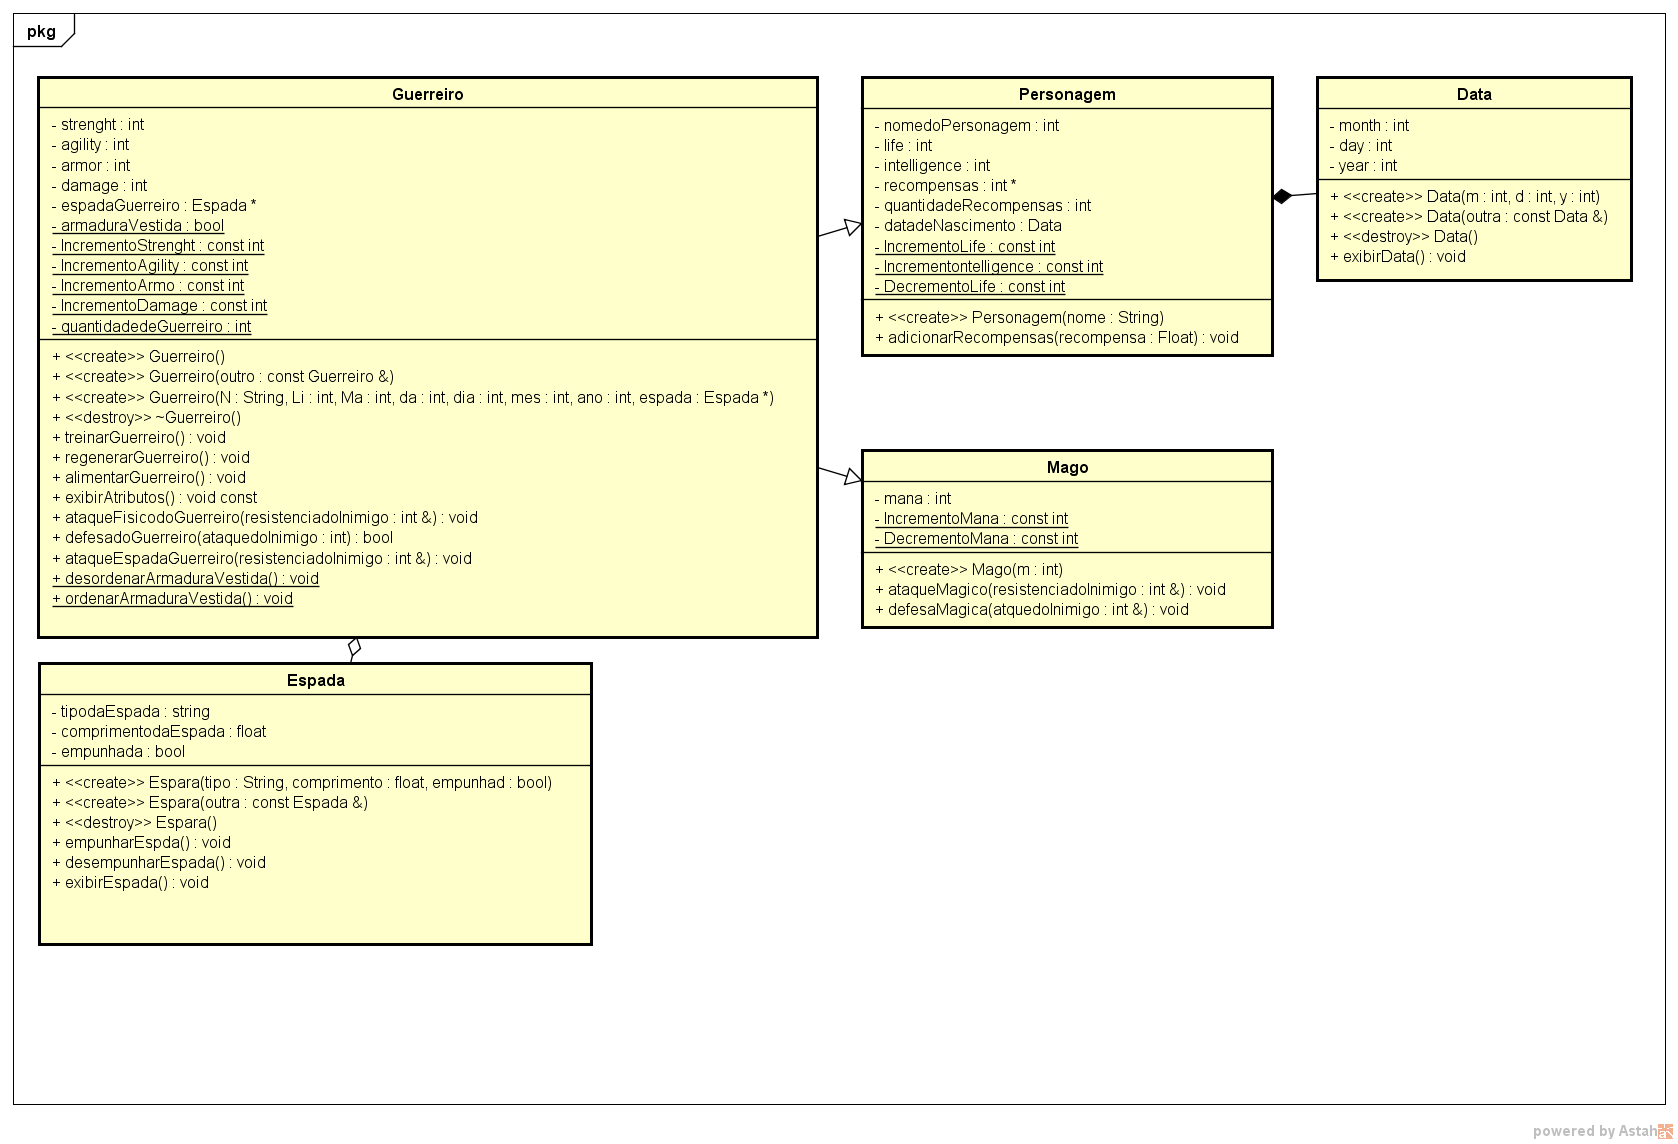
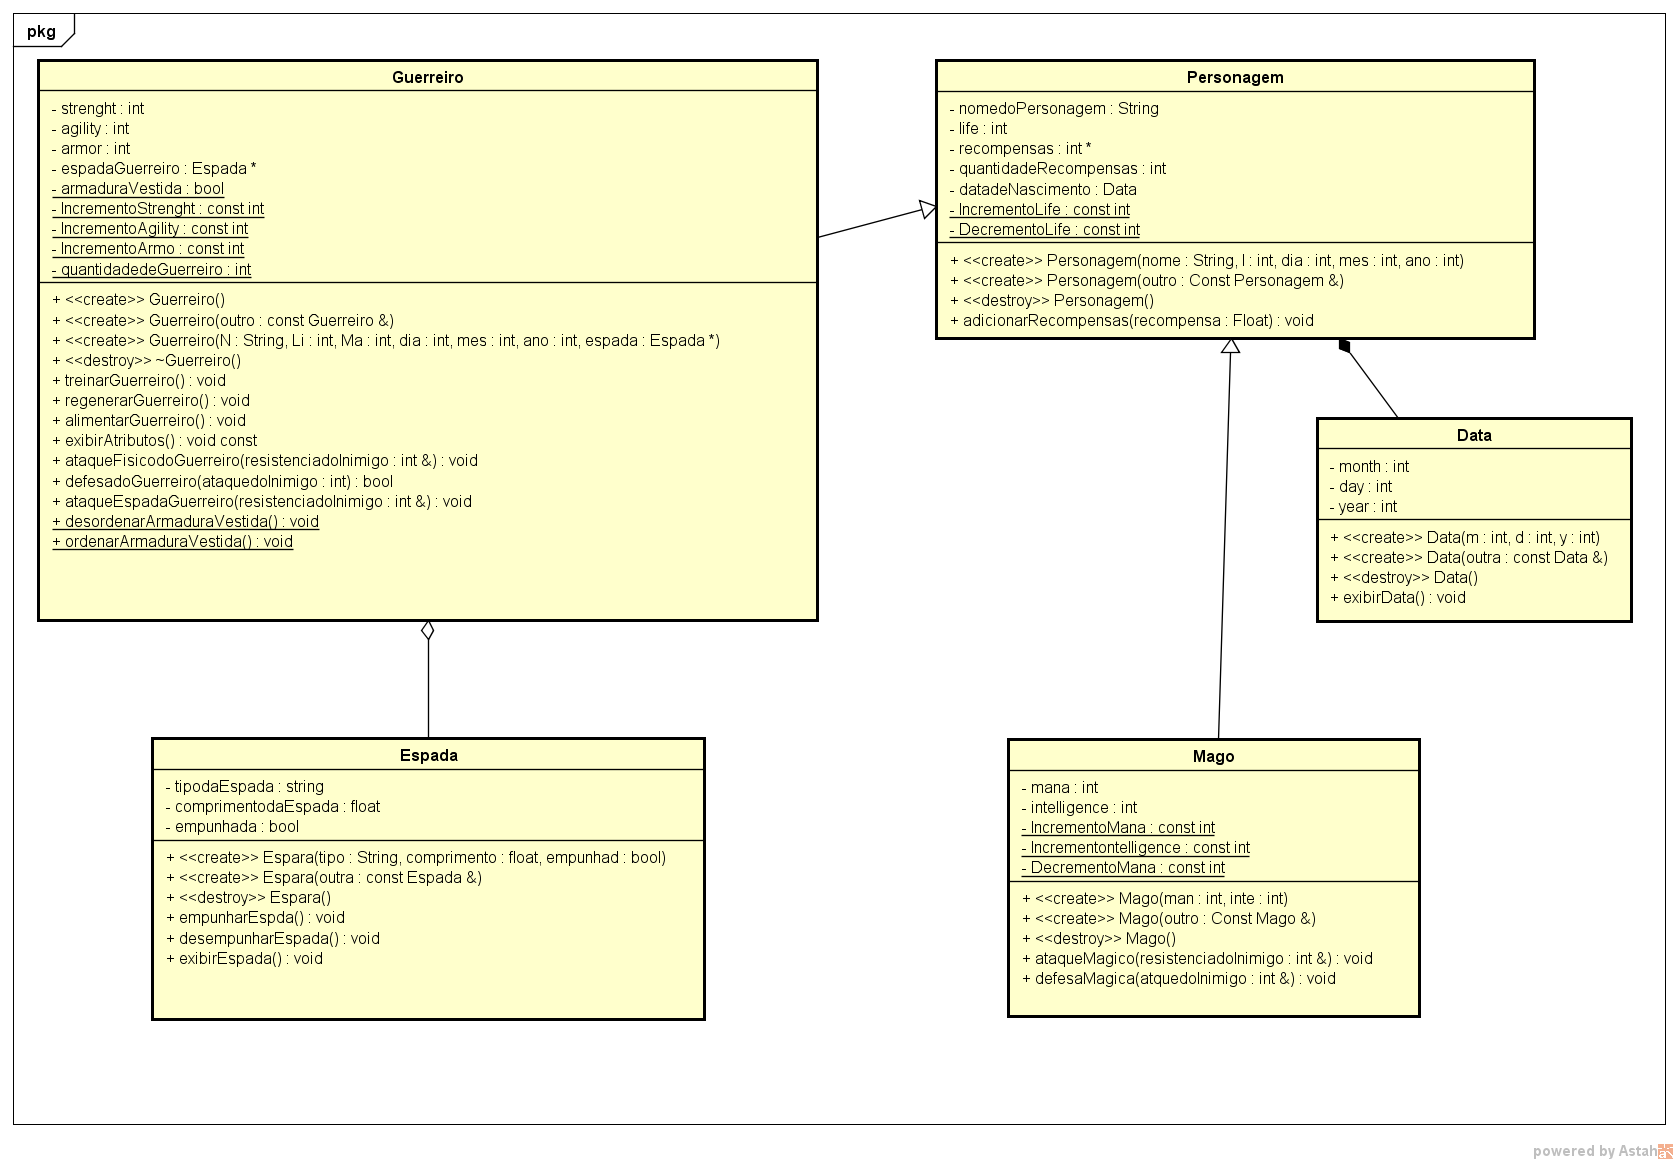
Implementação da classe Personagem.

diff --git a/Guerreiro/Guerreiro.cpp b/Guerreiro/Guerreiro.cpp
@@ -12,48 +12,41 @@ int Guerreiro::quantidadedeGuerreiros = 0;
 const int Guerreiro::IncrementoStrenght = 2;
 const int Guerreiro::IncrementoAgility = 2;
 const int Guerreiro::IncrementoIntelligence = 2;
-const int Guerreiro::IncrementoLife = 13;
+
 const int Guerreiro::IncrementoMana = 24;
 const int Guerreiro::IncrementoArmor  = 2;
 const int Guerreiro::IncrementoDamage = 2;
-const int Guerreiro::DecrementoLife = 13;
+
 const int Guerreiro::DecrementoMana = 24;
 
 bool Guerreiro::armaduraVestida = false;
 
 Guerreiro::Guerreiro(Espada *espada)
-:nomedoGuerreiro("Desconhecido"),strenght(33), agility(33),intelligence(33), life(1200), mana(600),armor(3), damage(33), datadeNascimento()
+:nomedoGuerreiro("Desconhecido"),strenght(33), agility(33), mana(600),armor(3), damage(33),Personagem("Sem Nome",1200)
 {
     this->espadadoGuerreiro = espada; 
-    this->quantidadeRecompensas = 0;
     quantidadedeGuerreiros++;
 }
 Guerreiro::Guerreiro( const string &N, int Li, int Ma, int Da, int dia, int mes, int ano, Espada *espada)
-:strenght(33), agility(33),intelligence(33),armor(3), datadeNascimento(dia, mes, ano)
+:strenght(33), agility(33),intelligence(33),armor(3),Personagem(N,Li,dia,mes,ano)
 {
         this->espadadoGuerreiro = espada;
-        
-        this->nomedoGuerreiro = N;
-        this->life = (Li > 0) ? Li : 1200;
         this->mana = (Ma > 0) ? Ma : 600;
         this->damage = (Da > 0) ? Da : 33;        
         
-        this->quantidadeRecompensas = 0;
         quantidadedeGuerreiros++;
 }
 Guerreiro::Guerreiro(const Guerreiro &outro)
-:datadeNascimento(outro.datadeNascimento)
+
 {
     this->nomedoGuerreiro = outro.nomedoGuerreiro;
     this->strenght = outro.strenght;
     this->agility = outro.agility;
     this->intelligence = outro.intelligence;
-    this->life = outro.life;
     this->mana = outro.armor;
     this->armor = outro.armor;
     this->damage = outro.damage;
-    this->quantidadeRecompensas = outro.quantidadeRecompensas;
-    this->recompensas = outro.recompensas;
+
     
     this->espadadoGuerreiro = outro.espadadoGuerreiro;
     
@@ -61,7 +54,6 @@ Guerreiro::Guerreiro(const Guerreiro &outro)
 }
 
 Guerreiro::~Guerreiro(){
-    delete [] recompensas;
     quantidadedeGuerreiros--;
     
 }
@@ -249,30 +241,6 @@ void Guerreiro::desordenarArmaduraVestida()
             Sleep(3000);
             cout<<"\nArmaduras guardadas...\n";
             armaduraVestida = false;
-    }
-}
-void Guerreiro::adicionarRecompensas(float recompensa)
-{
-    if(this->quantidadeRecompensas !=0)
-    {
-        float *aux = new float[this->quantidadeRecompensas];
-    
-        for (int i=0 ; i <this->quantidadeRecompensas-1; i++)
-            aux[i] = this->recompensas[i];
-                
-        delete [] recompensas;
-                
-        recompensas = new float[++this->quantidadeRecompensas];
-        for (int i=0; i<this->quantidadeRecompensas;i++)
-            this->recompensas[i] = aux[i] ;
-                
-        this->recompensas[this->quantidadeRecompensas-1] = recompensa;
-        delete [] aux;            
-    }
-    else
-    {
-        this->recompensas = new float[++this->quantidadeRecompensas];
-        this->recompensas[0] = recompensa;
     }
 }
 

diff --git a/Guerreiro/Guerreiro.h b/Guerreiro/Guerreiro.h
@@ -5,11 +5,12 @@
 #include <iostream>
 #include "Data.h"
 #include "Espada.h"
+#include "Personagem.h"
 
 using std::string;
 using std::ostream;
 
-class Guerreiro
+class Guerreiro: public Personagem
 {
     friend ostream & operator<<(ostream &, const Guerreiro &);
 public:
@@ -31,23 +32,20 @@ public:
     
     static void ordenarArmaduraVestida();
     static void desordenarArmaduraVestida();
-    
-    void adicionarRecompensas(float );
 
-    void setNomedoGuerreiro(string);
+
+
     void setStrenghtdoGuerreiro(int);
     void setAgilitydoGuerreiro(int);
     void setIntelligencedoGuerreiro(int);
-    void setLifedoGuerreiro(int);
+
     void setManadoGuerreiro(int);
     void setArmorGuerreiro(int);
     void setDamageGuerreiro(int);
 
-    string getNomedoGuerreiro() const;
     int getStrenghtdoGuerreiro() const;
     int getAgilitydoGuerreiro() const;
     int getIntelligencedoGuerreiro() const;
-    int getLifedoGuerreiro() const;
     int getManadoGuerreiro() const;
     int getArmorGuerreiro() const;
     int getDamageGuerreiro() const;
@@ -55,29 +53,22 @@ public:
     const Guerreiro &operator=(const Guerreiro &);
     bool operator==(const Guerreiro &) const;
 private:
-    string nomedoGuerreiro;
     int strenght;
     int agility;
     int intelligence;
-    int life;
     int mana;
     int armor;
     int damage;
-    Data datadeNascimento;
     Espada *espadadoGuerreiro;
     
-    float *recompensas;
-    int quantidadeRecompensas;
     static bool armaduraVestida;
     
     const static int IncrementoStrenght;
     const static int IncrementoAgility;
     const static int IncrementoIntelligence;
-    const static int IncrementoLife;
     const static int IncrementoMana;
     const static int IncrementoArmor;
     const static int IncrementoDamage;
-    const static int DecrementoLife;
     const static int DecrementoMana;
 
     static int quantidadedeGuerreiros;

diff --git a/Guerreiro/Personagem.cpp b/Guerreiro/Personagem.cpp
@@ -1,0 +1,49 @@
+#include "Personagem.h"
+
+const int Personagem::DecrementoLife = 13;
+const int Personagem::IncrementoLife = 13;
+
+Personagem::Personagem(String nome, int l,int dia, int mes, int ano)
+:datadeNascimento(dia,mes,ano)
+{
+    this->nomedoPersonagem = nome;
+    this->life = (l>0: j ? 1000);
+    this->quantidadeRecompensas = 0;
+}
+Personagem::Personagem(const Personagem & outro)
+:datadeNascimento(outro.datadeNascimento)
+{
+    this->nomedoPersonagem = outro.nomedoPersonagem;
+    this->life = outro.life;
+    this->quantidadeRecompensas = 0;
+}
+
+Personagem::~Personagem()
+{
+    delete []recompenas;
+}
+
+void Personagem::adicionarRecompensas(float recompensa)
+{
+    if(this->quantidadeRecompensas !=0)
+    {
+        float *aux = new float[this->quantidadeRecompensas];
+    
+        for (int i=0 ; i <this->quantidadeRecompensas-1; i++)
+            aux[i] = this->recompensas[i];
+                
+        delete [] recompensas;
+                
+        recompensas = new float[++this->quantidadeRecompensas];
+        for (int i=0; i<this->quantidadeRecompensas;i++)
+            this->recompensas[i] = aux[i] ;
+                
+        this->recompensas[this->quantidadeRecompensas-1] = recompensa;
+        delete [] aux;            
+    }
+    else
+    {
+        this->recompensas = new float[++this->quantidadeRecompensas];
+        this->recompensas[0] = recompensa;
+    }
+}

diff --git a/Guerreiro/Personagem.h b/Guerreiro/Personagem.h
@@ -1,0 +1,28 @@
+#ifndef PERSONAGEM_H
+#define PERSONAGEM_H
+
+
+#include<string>
+
+using std::string;
+
+class Personagem
+{
+public:
+    Personagem(String, int,int,int,int);
+    Personagem(Const Personagem &);
+    ~Personagem();
+    
+    void adicionarRecompensas(float);
+private:
+    String nomedoPersonagem;
+    int life;
+    int *recompensas;
+    int quantidadeRecompensas;
+    const Data datadeNascimento;
+    const static int IncrementoLife;
+    const static int DecrementoLife;
+
+};
+
+#endif // PERSONAGEM_H

diff --git a/Guerreiro/Mago.h b/Guerreiro/Mago.h
@@ -1,0 +1,12 @@
+#ifndef MAGO_H
+#define MAGO_H
+
+class Mago
+{
+public:
+    Mago();
+    ~Mago();
+
+};
+
+#endif // MAGO_H

diff --git a/Guerreiro/Mago.cpp b/Guerreiro/Mago.cpp
@@ -1,0 +1,10 @@
+#include "Mago.h"
+
+Mago::Mago()
+{
+}
+
+Mago::~Mago()
+{
+}
+
